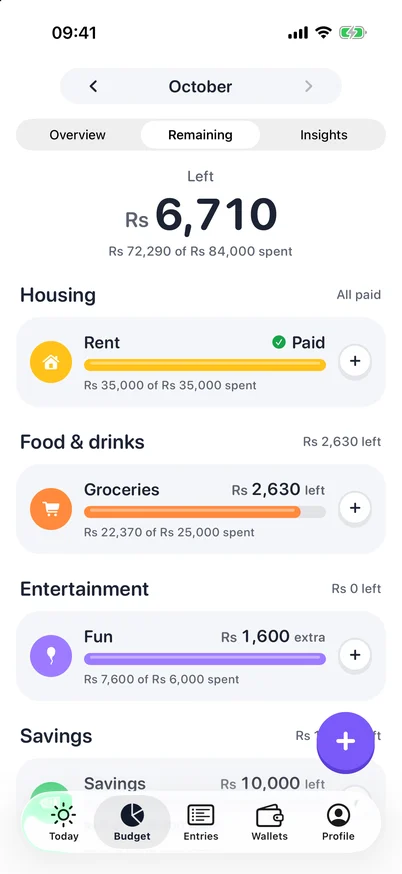
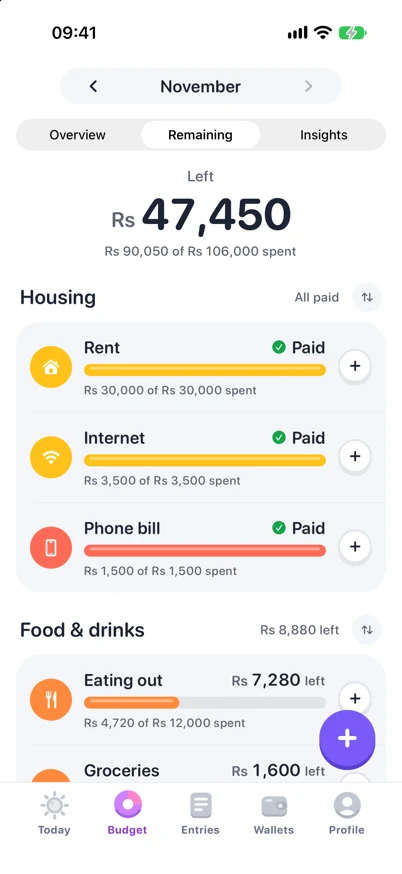
Budget and Entries screenshots with the new tab bar

diff --git a/index.html b/index.html
@@ -237,7 +237,7 @@
           <li><b>Leftovers can carry</b> into next month when you switch it on.</li>
         </ol>
       </div>
-      <div class="stage st-blue"><svg class="deco k1" aria-hidden="true"><use href="#sparkle"/></svg><svg class="deco k2" aria-hidden="true"><use href="#sparkle"/></svg><svg class="deco cn" aria-hidden="true"><use href="#coin"/></svg><figure class="phone"><img src="assets/screen-budget.webp" alt="Budget: what's left this month, categories grouped by family" width="402" height="874" loading="lazy"></figure></div>
+      <div class="stage st-blue"><svg class="deco k1" aria-hidden="true"><use href="#sparkle"/></svg><svg class="deco k2" aria-hidden="true"><use href="#sparkle"/></svg><svg class="deco cn" aria-hidden="true"><use href="#coin"/></svg><figure class="phone"><img src="assets/screen-budget.webp?v=2" alt="Budget: what's left this month, categories grouped by family" width="402" height="874" loading="lazy"></figure></div>
     </div>
     <div class="panel" id="entries" role="tabpanel" aria-labelledby="tab-entries">
       <div class="panel-copy">
@@ -249,7 +249,7 @@
           <li><b>Swipe to delete,</b> with an undo if you change your mind.</li>
         </ol>
       </div>
-      <div class="stage st-green"><svg class="deco k1" aria-hidden="true"><use href="#sparkle"/></svg><svg class="deco k2" aria-hidden="true"><use href="#sparkle"/></svg><svg class="deco cn" aria-hidden="true"><use href="#coin"/></svg><figure class="phone"><img src="assets/screen-entries.webp" alt="Entries: income, spending and moves this month, then every entry by day" width="402" height="874" loading="lazy"></figure></div>
+      <div class="stage st-green"><svg class="deco k1" aria-hidden="true"><use href="#sparkle"/></svg><svg class="deco k2" aria-hidden="true"><use href="#sparkle"/></svg><svg class="deco cn" aria-hidden="true"><use href="#coin"/></svg><figure class="phone"><img src="assets/screen-entries.webp?v=2" alt="Entries: income, spending and moves this month, then every entry by day" width="402" height="874" loading="lazy"></figure></div>
     </div>
     <div class="panel" id="wallets" role="tabpanel" aria-labelledby="tab-wallets">
       <div class="panel-copy">
